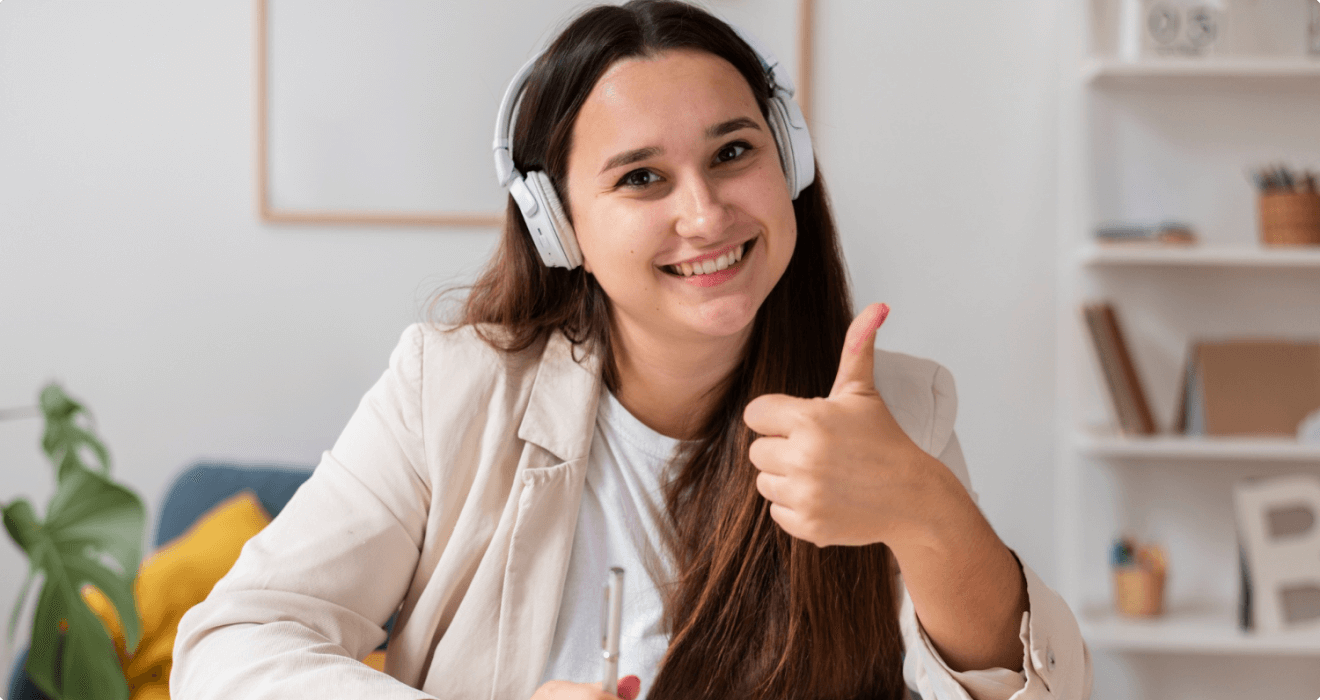
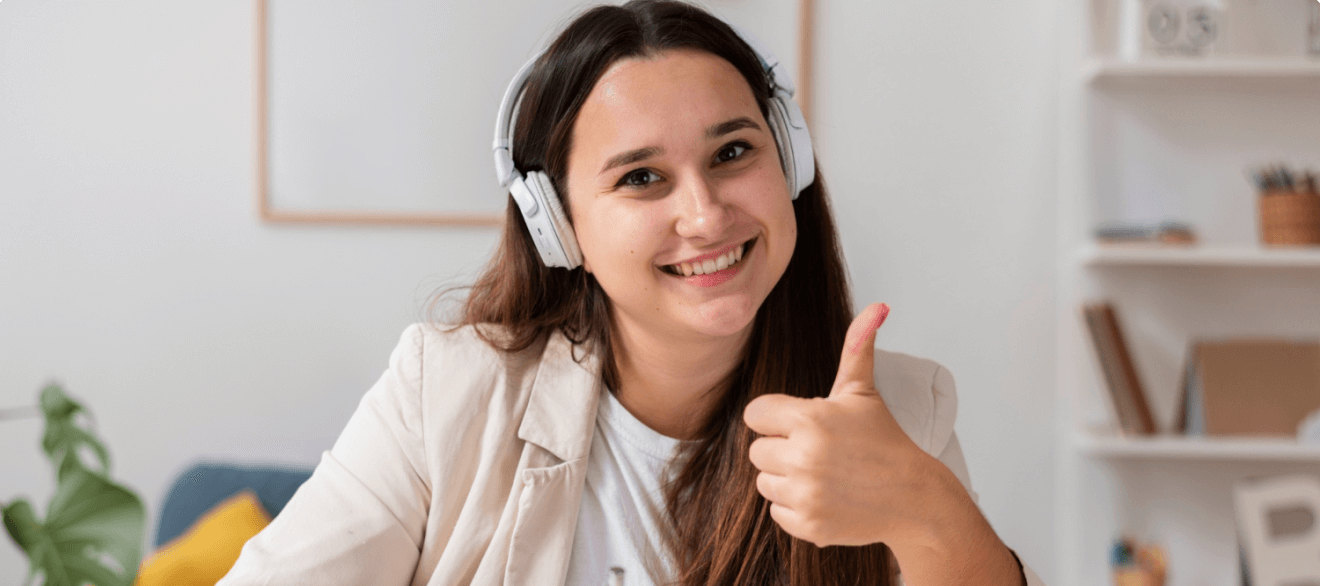
Slider added

diff --git a/index.html b/index.html
@@ -20,7 +20,7 @@
       <nav class="navbar navbar-expand-lg t">
         <div class="container-fluid">
           <a class="navbar-brand fs-2 fw-semibold text-secondary" href="#"
-            ><span class="me-2" style="color: #00d7ff"> Edu</span>Share</a
+            ><span class="me-2" style="color: #0d6efd"> Edu</span>Share</a
           >
           <button
             class="navbar-toggler"
@@ -64,6 +64,75 @@
       </nav>
     </section>
     <!-- Navbar end -->
+    <!-- Slider Start -->
+    <div class="container">
+      <div
+        id="carouselExampleCaptions"
+        class="carousel slide"
+        data-bs-ride="false"
+      >
+        <div class="carousel-inner rounded">
+          <div class="carousel-item active">
+            <img
+              src="images/cover/cover-1.png"
+              class="d-block w-100"
+              alt="..."
+            />
+            <div class="carousel-caption d-none d-md-block">
+              <h5>First slide label</h5>
+              <p>
+                Some representative placeholder content for the first slide.
+              </p>
+            </div>
+          </div>
+          <div class="carousel-item">
+            <img
+              src="images/cover/cover-2.png"
+              class="d-block w-100"
+              alt="..."
+            />
+            <div class="carousel-caption d-none d-md-block">
+              <h5>Second slide label</h5>
+              <p>
+                Some representative placeholder content for the second slide.
+              </p>
+            </div>
+          </div>
+          <div class="carousel-item">
+            <img
+              src="images/cover/cover-3.png"
+              class="d-block w-100"
+              alt="..."
+            />
+            <div class="carousel-caption d-none d-md-block">
+              <h5>Third slide label</h5>
+              <p>
+                Some representative placeholder content for the third slide.
+              </p>
+            </div>
+          </div>
+        </div>
+        <button
+          class="carousel-control-prev"
+          type="button"
+          data-bs-target="#carouselExampleCaptions"
+          data-bs-slide="prev"
+        >
+          <span class="carousel-control-prev-icon" aria-hidden="true"></span>
+          <span class="visually-hidden">Previous</span>
+        </button>
+        <button
+          class="carousel-control-next"
+          type="button"
+          data-bs-target="#carouselExampleCaptions"
+          data-bs-slide="next"
+        >
+          <span class="carousel-control-next-icon" aria-hidden="true"></span>
+          <span class="visually-hidden">Next</span>
+        </button>
+      </div>
+    </div>
+    <!-- Slider end -->
     <!-- Bootstrap JS -->
     <script src="https://cdn.jsdelivr.net/npm/bootstrap@5.2.0/dist/js/bootstrap.bundle.min.js
     "></script>
